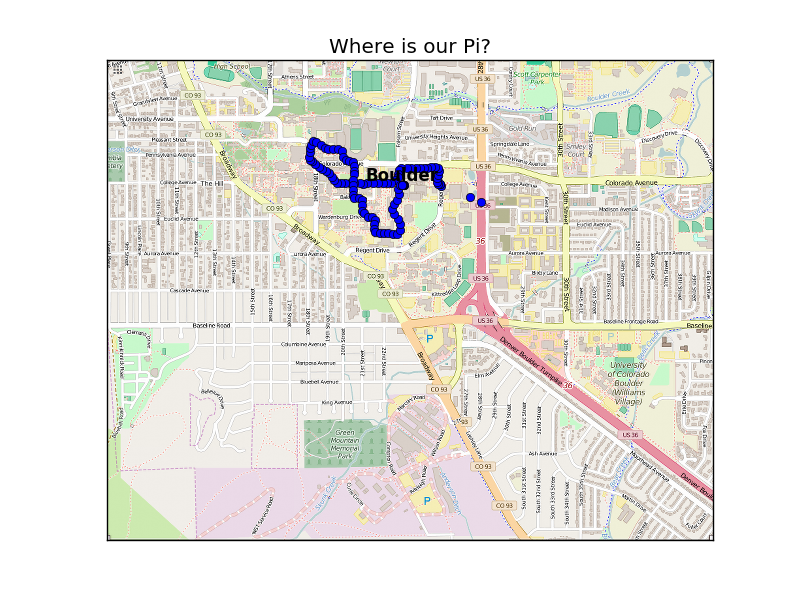
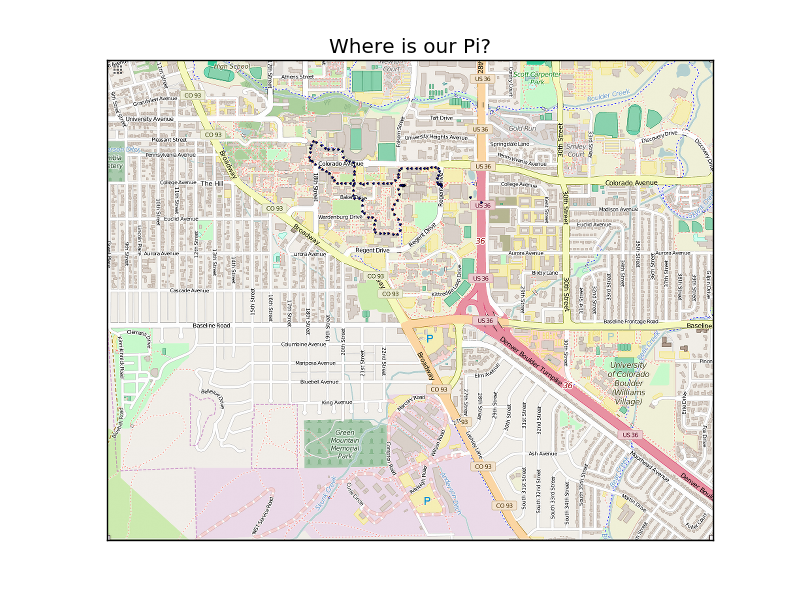
updated map

Changed region(s): [[0.375, 0.21, 0.5625, 0.42], [0.5938, 0.33, 0.625, 0.36]]

diff --git a/gps/basemap.py b/gps/basemap.py
@@ -8,24 +8,25 @@ import os
 #urcrnr = upper right corner
 
 #corner coords of CU campus area
-llcrnrlon = -105.2833
-urcrnrlon = -105.2434
+llcrnrlon = -105.2753
+urcrnrlon = -105.2581
 
-llcrnrlat = 39.9893
-urcrnrlat = 40.0135
+llcrnrlat = 40.0035
+urcrnrlat = 40.0107
 
 my_map = Basemap(llcrnrlon= llcrnrlon, urcrnrlat= urcrnrlat, urcrnrlon= urcrnrlon, llcrnrlat= llcrnrlat,
         resolution='h', projection='merc')
 
 lats = []
 lons = []
+direction = []
+
 with open("collect.csv", "rb") as f:
 	reader = csv.reader(f,delimiter=",")
 	for row in reader:
 		lats.append(row[0])
 		lons.append(row[1])
-
-
+		direction.append(row[5])
 
 #boulders coords:
 #lat = 40.0100
@@ -35,10 +36,10 @@ RGB = (0.0,0.0,0.0)
 #skips the first row to take into account the header strings
 for i in range(1,len(lats)):
 	x,y = my_map(float(lons[i]),float(lats[i]))
-	my_map.plot(x,y,marker="o",color='b')
+	my_map.plot(x,y,marker=(3, 0, (float(direction[i])+180)), color='b', markersize = 2)
 
 #to add text to the map at coords x,y:
-plt.text(x,y, "Boulder", fontsize=12,fontweight="bold", ha="center", va="bottom")
+#plt.text(x,y, "Boulder", fontsize=12,fontweight="bold", ha="center", va="bottom")
 
 #background.png image is from openstreetmap with corner coords from above
 im = plt.imread('background.png')
